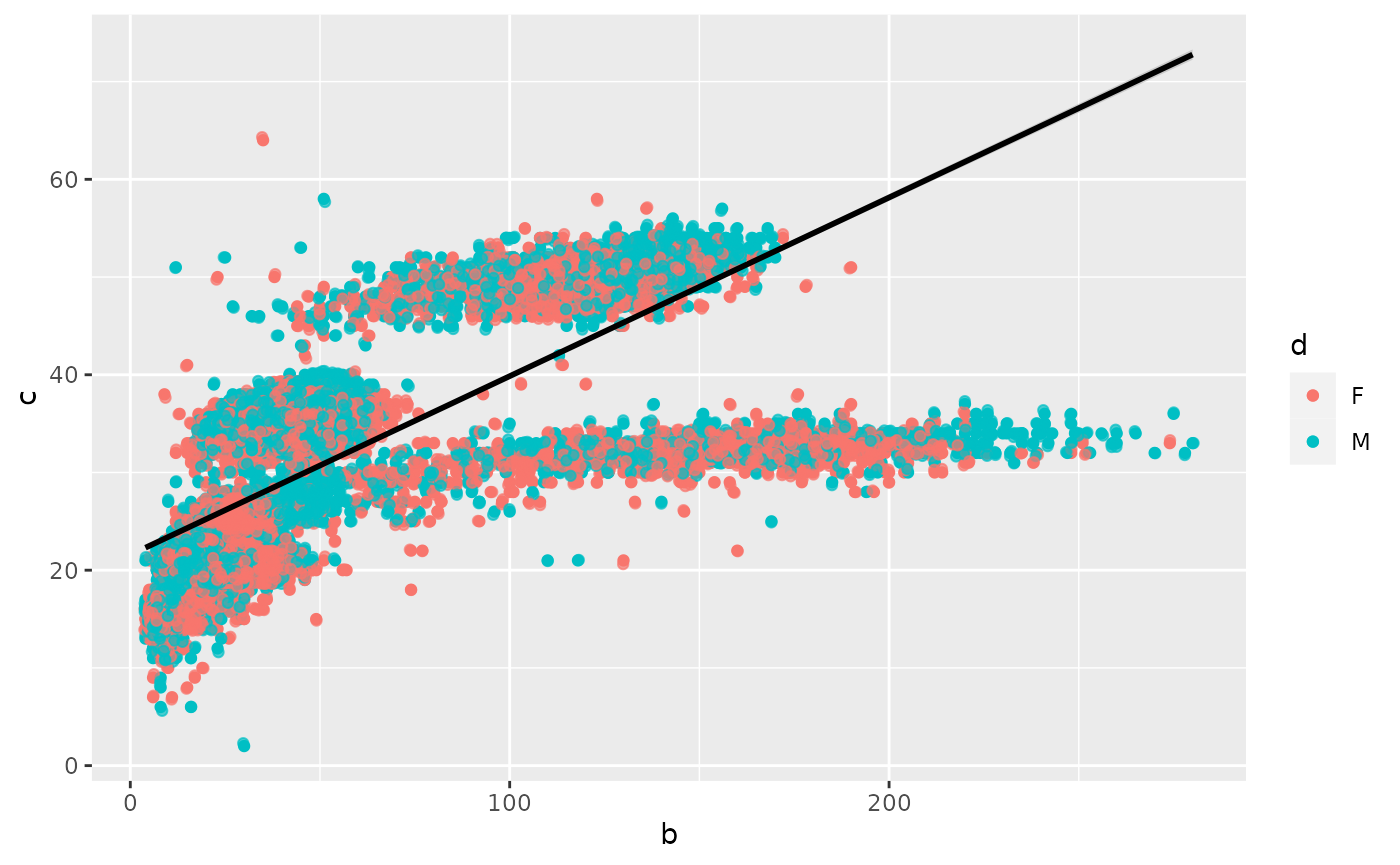
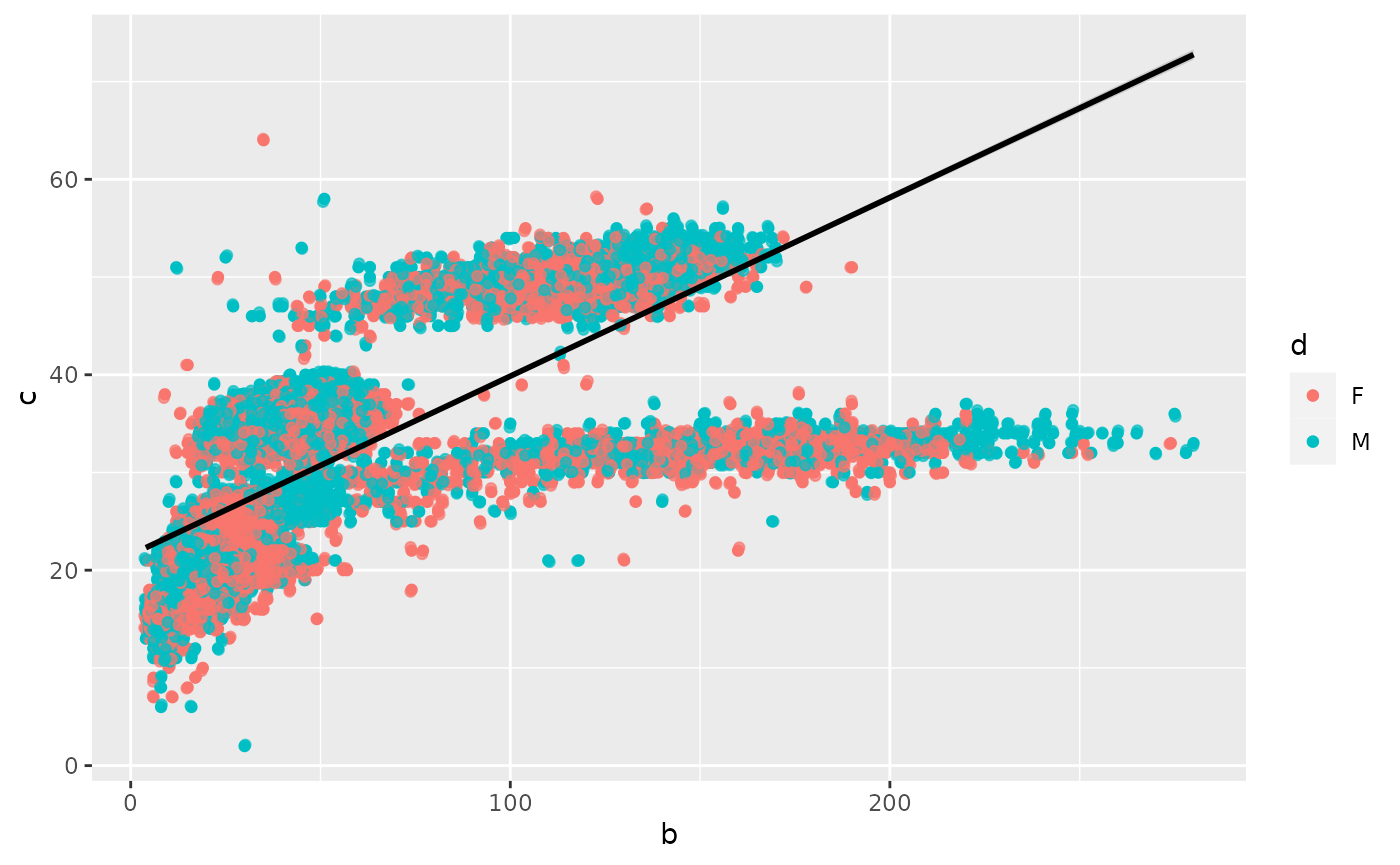
Final edit

diff --git a/docs/articles/Macri_R_Package_Tutorial.html b/docs/articles/Macri_R_Package_Tutorial.html
@@ -101,9 +101,9 @@
 <pre><code><span class="co">## Using github PAT from envvar GITHUB_PAT</span></code></pre>
 <pre><code><span class="co">## Downloading GitHub repo dustinmacri/R_package_Macri@HEAD</span></code></pre>
 <pre><code>##   
-   checking for file ‘/tmp/RtmpLjFOyZ/remotesfbf44b72d71/dustinmacri-R_package_Macri-b284fd0/DESCRIPTION’ ...
+   checking for file ‘/tmp/RtmpKSNLJu/remotes14ae37599a27/dustinmacri-R_package_Macri-62097f4/DESCRIPTION’ ...
   
- [32m✓ [39m   [38;5;247mchecking for file ‘/tmp/RtmpLjFOyZ/remotesfbf44b72d71/dustinmacri-R_package_Macri-b284fd0/DESCRIPTION’ [39m [36m [39m
+ [32m✓ [39m   [38;5;247mchecking for file ‘/tmp/RtmpKSNLJu/remotes14ae37599a27/dustinmacri-R_package_Macri-62097f4/DESCRIPTION’ [39m [36m [39m
 ## 
   
  [38;5;247m─ [39m [38;5;247m   [39m [38;5;247mpreparing ‘MacriRPackage’: [39m [36m [39m
@@ -118,15 +118,15 @@
 ## 
   
  [38;5;247m─ [39m [38;5;247m   [39m [38;5;247mchecking for empty or unneeded directories [39m [36m [39m
+##  [38;5;247m─ [39m [38;5;247m   [39m [38;5;247mlooking to see if a ‘data/datalist’ file should be added [39m [36m [39m
 ## 
   
- [38;5;247m─ [39m [38;5;247m   [39m [38;5;247mlooking to see if a ‘data/datalist’ file should be added [39m [36m [39m
-##  [38;5;247m─ [39m [38;5;247m   [39m [38;5;247mbuilding ‘MacriRPackage_0.0.0.9000.tar.gz’ [39m [36m [39m
+ [38;5;247m─ [39m [38;5;247m   [39m [38;5;247mbuilding ‘MacriRPackage_0.0.0.9000.tar.gz’ [39m [36m [39m
 ## 
   
    
 ## </code></pre>
-<pre><code><span class="co">## Installing package into '/tmp/RtmpAc6tux/temp_libpath11a7626a3d8'</span>
+<pre><code><span class="co">## Installing package into '/tmp/RtmpAc6tux/temp_libpath11a54582fa7'</span>
 <span class="co">## (as 'lib' is unspecified)</span></code></pre>
 <div class="sourceCode" id="cb10"><pre class="downlit sourceCode r">
 <code class="sourceCode R"><span class="kw"><a href="https://rdrr.io/r/base/library.html" class="external-link">library</a></span><span class="op">(</span><span class="va">MacriRPackage</span><span class="op">)</span></code></pre></div>
@@ -141,6 +141,16 @@
 <p>Expected output: A proper data set that has all, if any, NA values removed from it.</p>
 <p>This function is a good thing to have as it essentially streamlines the file- reading process by automatically reading files in Tidyverse and removing NA values. This may prove useful when having to perform multiple calculations with various data sets at a time, removing much of the hassle in the process.</p>
 <div class="sourceCode" id="cb12"><pre class="downlit sourceCode r">
+<code class="sourceCode R"><span class="va">read</span> <span class="op">&lt;-</span> <span class="kw">function</span><span class="op">(</span><span class="va">x</span><span class="op">)</span><span class="op">{</span>
+  <span class="va">fileread</span> <span class="op">&lt;-</span> <span class="fu"><a href="https://readr.tidyverse.org/reference/read_delim.html" class="external-link">read_csv</a></span><span class="op">(</span><span class="va">x</span><span class="op">)</span>
+  <span class="kw">if</span><span class="op">(</span><span class="fu"><a href="https://rdrr.io/r/base/as.data.frame.html" class="external-link">is.data.frame</a></span><span class="op">(</span><span class="va">fileread</span><span class="op">)</span><span class="op">)</span><span class="op">{</span>
+    <span class="kw"><a href="https://rdrr.io/r/base/function.html" class="external-link">return</a></span><span class="op">(</span><span class="fu"><a href="https://rdrr.io/r/stats/na.fail.html" class="external-link">na.omit</a></span><span class="op">(</span><span class="va">fileread</span><span class="op">)</span><span class="op">)</span>
+  <span class="op">}</span>
+  <span class="kw">else</span><span class="op">{</span>
+  <span class="kw"><a href="https://rdrr.io/r/base/function.html" class="external-link">return</a></span><span class="op">(</span><span class="st">"ERROR - Not a dataframe"</span><span class="op">)</span>
+  <span class="op">}</span>
+<span class="op">}</span></code></pre></div>
+<div class="sourceCode" id="cb13"><pre class="downlit sourceCode r">
 <code class="sourceCode R"><span class="va">surveys</span> <span class="op">&lt;-</span> <span class="fu"><a href="../reference/read.html">read</a></span><span class="op">(</span><span class="st">"/cloud/project/data/surveys.csv"</span><span class="op">)</span></code></pre></div>
 <pre><code><span class="co">## <span style="font-weight: bold;">Rows: </span><span style="color: #0000BB;">35549</span> <span style="font-weight: bold;">Columns: </span><span style="color: #0000BB;">9</span></span></code></pre>
 <pre><code><span class="co">## <span style="color: #00BBBB;">──</span> <span style="font-weight: bold;">Column specification</span> <span style="color: #00BBBB;">────────────────────────────────────────────────────────</span></span>
@@ -157,7 +167,16 @@
 <p>The ‘pplot’ function creates a point plot in ggplot2 based on the given inputs: first input is the data set, the second input is the x-axis trait, the third input is the y-axis trait, and the fourth input is the trait that color is based upon.</p>
 <p>Expected output: A proper point plot that compares two traits on a data set and has colors determined by a certain trait.</p>
 <p>This is a good function to use in order to quickly make a point plot between two traits of a data set. It saves the hassle of making a point plot through ggplot, useful if you are making multiple basic plots at a time; However, the plots are quite basic and only point plots are created.</p>
-<div class="sourceCode" id="cb16"><pre class="downlit sourceCode r">
+<div class="sourceCode" id="cb17"><pre class="downlit sourceCode r">
+<code class="sourceCode R"><span class="va">pplot</span> <span class="op">&lt;-</span> <span class="kw">function</span><span class="op">(</span><span class="va">a</span>, <span class="va">b</span>, <span class="va">c</span>, <span class="va">d</span><span class="op">)</span><span class="op">{</span>
+  <span class="va">plot</span> <span class="op">&lt;-</span> <span class="fu"><a href="https://ggplot2.tidyverse.org/reference/ggplot.html" class="external-link">ggplot</a></span><span class="op">(</span><span class="va">a</span>, mapping <span class="op">=</span> <span class="fu"><a href="https://ggplot2.tidyverse.org/reference/aes.html" class="external-link">aes</a></span><span class="op">(</span>x <span class="op">=</span> <span class="va">b</span>, y <span class="op">=</span> <span class="va">c</span>, color <span class="op">=</span> <span class="va">d</span><span class="op">)</span><span class="op">)</span> <span class="op">+</span> <span class="fu"><a href="https://ggplot2.tidyverse.org/reference/geom_point.html" class="external-link">geom_point</a></span><span class="op">(</span><span class="op">)</span> <span class="op">+</span> <span class="fu"><a href="https://ggplot2.tidyverse.org/reference/geom_jitter.html" class="external-link">geom_jitter</a></span><span class="op">(</span>alpha <span class="op">=</span> <span class="fl">0.7</span><span class="op">)</span>
+  <span class="kw">if</span><span class="op">(</span><span class="fu"><a href="https://ggplot2.tidyverse.org/reference/is.ggplot.html" class="external-link">is.ggplot</a></span><span class="op">(</span><span class="va">plot</span><span class="op">)</span><span class="op">)</span><span class="op">{</span>
+    <span class="kw"><a href="https://rdrr.io/r/base/function.html" class="external-link">return</a></span><span class="op">(</span><span class="va">plot</span><span class="op">)</span>
+  <span class="op">}</span>
+  <span class="kw">else</span><span class="op">{</span>
+  <span class="kw"><a href="https://rdrr.io/r/base/function.html" class="external-link">return</a></span><span class="op">(</span><span class="st">"ERROR - Not a plot"</span><span class="op">)</span><span class="op">}</span> 
+<span class="op">}</span></code></pre></div>
+<div class="sourceCode" id="cb18"><pre class="downlit sourceCode r">
 <code class="sourceCode R"><span class="va">surveysplot</span> <span class="op">&lt;-</span> <span class="fu"><a href="../reference/pplot.html">pplot</a></span><span class="op">(</span><span class="va">surveys</span>, <span class="va">surveys</span><span class="op">$</span><span class="va">weight</span>, <span class="va">surveys</span><span class="op">$</span><span class="va">hindfoot_length</span>, <span class="va">surveys</span><span class="op">$</span><span class="va">sex</span><span class="op">)</span></code></pre></div>
 <p><img src="Macri_R_Package_Tutorial_files/figure-html/surveysplot-1.png" width="700"></p>
 </div>
@@ -167,7 +186,17 @@
 <p>The ‘linreg’ function produces a linear regression and a resulting summary between two traits of a data set.</p>
 <p>Expected output: A summary that includes the linear regression between two specific traits of the data set</p>
 <p>This function is great for quickly and efficiently making linear regressions. The simple function has been streamlined to produce linear regression summaries between any two traits on any dataset, perfect for projects that require many regressions to be created and analyzed.</p>
-<div class="sourceCode" id="cb17"><pre class="downlit sourceCode r">
+<div class="sourceCode" id="cb19"><pre class="downlit sourceCode r">
+<code class="sourceCode R"><span class="va">linreg</span> <span class="op">&lt;-</span> <span class="kw">function</span><span class="op">(</span><span class="va">a</span>, <span class="va">x</span>, <span class="va">y</span><span class="op">)</span><span class="op">{</span>
+  <span class="va">lr</span> <span class="op">&lt;-</span> <span class="fu"><a href="https://rdrr.io/r/base/summary.html" class="external-link">summary</a></span><span class="op">(</span><span class="fu"><a href="https://rdrr.io/r/stats/lm.html" class="external-link">lm</a></span><span class="op">(</span>data <span class="op">=</span> <span class="va">a</span>, formula <span class="op">=</span> <span class="va">x</span> <span class="op">~</span> <span class="va">y</span><span class="op">)</span><span class="op">)</span>
+  <span class="kw">if</span><span class="op">(</span><span class="fu"><a href="https://rdrr.io/r/base/NA.html" class="external-link">is.na</a></span><span class="op">(</span><span class="va">lr</span><span class="op">)</span><span class="op">)</span><span class="op">{</span>
+    <span class="kw"><a href="https://rdrr.io/r/base/function.html" class="external-link">return</a></span><span class="op">(</span><span class="st">"ERROR - NA"</span><span class="op">)</span>
+    <span class="op">}</span>
+  <span class="kw">else</span> <span class="op">{</span>
+  <span class="kw"><a href="https://rdrr.io/r/base/function.html" class="external-link">return</a></span> <span class="op">(</span><span class="va">lr</span><span class="op">)</span>
+    <span class="op">}</span>
+<span class="op">}</span></code></pre></div>
+<div class="sourceCode" id="cb20"><pre class="downlit sourceCode r">
 <code class="sourceCode R"><span class="va">surveyslr</span> <span class="op">&lt;-</span> <span class="fu"><a href="../reference/linreg.html">linreg</a></span><span class="op">(</span><span class="va">surveys</span>, <span class="va">surveys</span><span class="op">$</span><span class="va">weight</span>, <span class="va">surveys</span><span class="op">$</span><span class="va">hindfoot_length</span><span class="op">)</span></code></pre></div>
 <pre><code><span class="co">## Warning in if (is.na(lr)) {: the condition has length &gt; 1 and only the first</span>
 <span class="co">## element will be used</span></code></pre>
@@ -196,7 +225,16 @@
 <p>The ‘lrplot’ function essentially combines the last two functions together. It creates a point plot from ggplot based on specific inputs (first input is the data set, the second input is the x-axis trait, the third input is the y-axis trait, and the fourth input is the trait that color is based upon) as well as placing a linear regression on the plot to show any trends in the data.</p>
 <p>Expected output: A proper point plot that compares two traits on a data set and has colors determined by a certain trait with a linear regression line to show trends.</p>
 <p>This function is good for anyone who just so happens to need to create a point plot with a linear regression placed on top of it. Like the functions before, the function’s goal is streamline the plot and linear regression creation process, which may save someone some time and sanity.</p>
-<div class="sourceCode" id="cb20"><pre class="downlit sourceCode r">
+<div class="sourceCode" id="cb23"><pre class="downlit sourceCode r">
+<code class="sourceCode R"><span class="va">lrplot</span> <span class="op">&lt;-</span> <span class="kw">function</span><span class="op">(</span><span class="va">a</span>, <span class="va">b</span>, <span class="va">c</span>, <span class="va">d</span><span class="op">)</span><span class="op">{</span>
+  <span class="va">plot</span> <span class="op">&lt;-</span> <span class="fu"><a href="https://ggplot2.tidyverse.org/reference/ggplot.html" class="external-link">ggplot</a></span><span class="op">(</span><span class="va">a</span>, mapping <span class="op">=</span> <span class="fu"><a href="https://ggplot2.tidyverse.org/reference/aes.html" class="external-link">aes</a></span><span class="op">(</span>x <span class="op">=</span> <span class="va">b</span>, y <span class="op">=</span> <span class="va">c</span>, color <span class="op">=</span> <span class="va">d</span><span class="op">)</span><span class="op">)</span> <span class="op">+</span> <span class="fu"><a href="https://ggplot2.tidyverse.org/reference/geom_point.html" class="external-link">geom_point</a></span><span class="op">(</span><span class="op">)</span> <span class="op">+</span> <span class="fu"><a href="https://ggplot2.tidyverse.org/reference/geom_jitter.html" class="external-link">geom_jitter</a></span><span class="op">(</span>alpha <span class="op">=</span> <span class="fl">0.7</span><span class="op">)</span> <span class="op">+</span> <span class="fu"><a href="https://ggplot2.tidyverse.org/reference/geom_smooth.html" class="external-link">geom_smooth</a></span><span class="op">(</span>method <span class="op">=</span> <span class="st">"lm"</span>, color <span class="op">=</span> <span class="st">"black"</span><span class="op">)</span>
+  <span class="kw">if</span><span class="op">(</span><span class="fu"><a href="https://ggplot2.tidyverse.org/reference/is.ggplot.html" class="external-link">is.ggplot</a></span><span class="op">(</span><span class="va">plot</span><span class="op">)</span><span class="op">)</span><span class="op">{</span>
+    <span class="kw"><a href="https://rdrr.io/r/base/function.html" class="external-link">return</a></span><span class="op">(</span><span class="va">plot</span><span class="op">)</span>
+  <span class="op">}</span>
+  <span class="kw">else</span><span class="op">{</span>
+  <span class="kw"><a href="https://rdrr.io/r/base/function.html" class="external-link">return</a></span><span class="op">(</span><span class="st">"ERROR - Not a plot"</span><span class="op">)</span><span class="op">}</span> 
+<span class="op">}</span></code></pre></div>
+<div class="sourceCode" id="cb24"><pre class="downlit sourceCode r">
 <code class="sourceCode R"><span class="va">surveyslrplot</span> <span class="op">&lt;-</span> <span class="fu"><a href="../reference/lrplot.html">lrplot</a></span><span class="op">(</span><span class="va">surveys</span>, <span class="va">surveys</span><span class="op">$</span><span class="va">weight</span>, <span class="va">surveys</span><span class="op">$</span><span class="va">hindfoot_length</span>, <span class="va">surveys</span><span class="op">$</span><span class="va">sex</span><span class="op">)</span></code></pre></div>
 <pre><code><span class="co">## `geom_smooth()` using formula 'y ~ x'</span></code></pre>
 <p><img src="Macri_R_Package_Tutorial_files/figure-html/surveyslrplot-1.png" width="700"></p>
